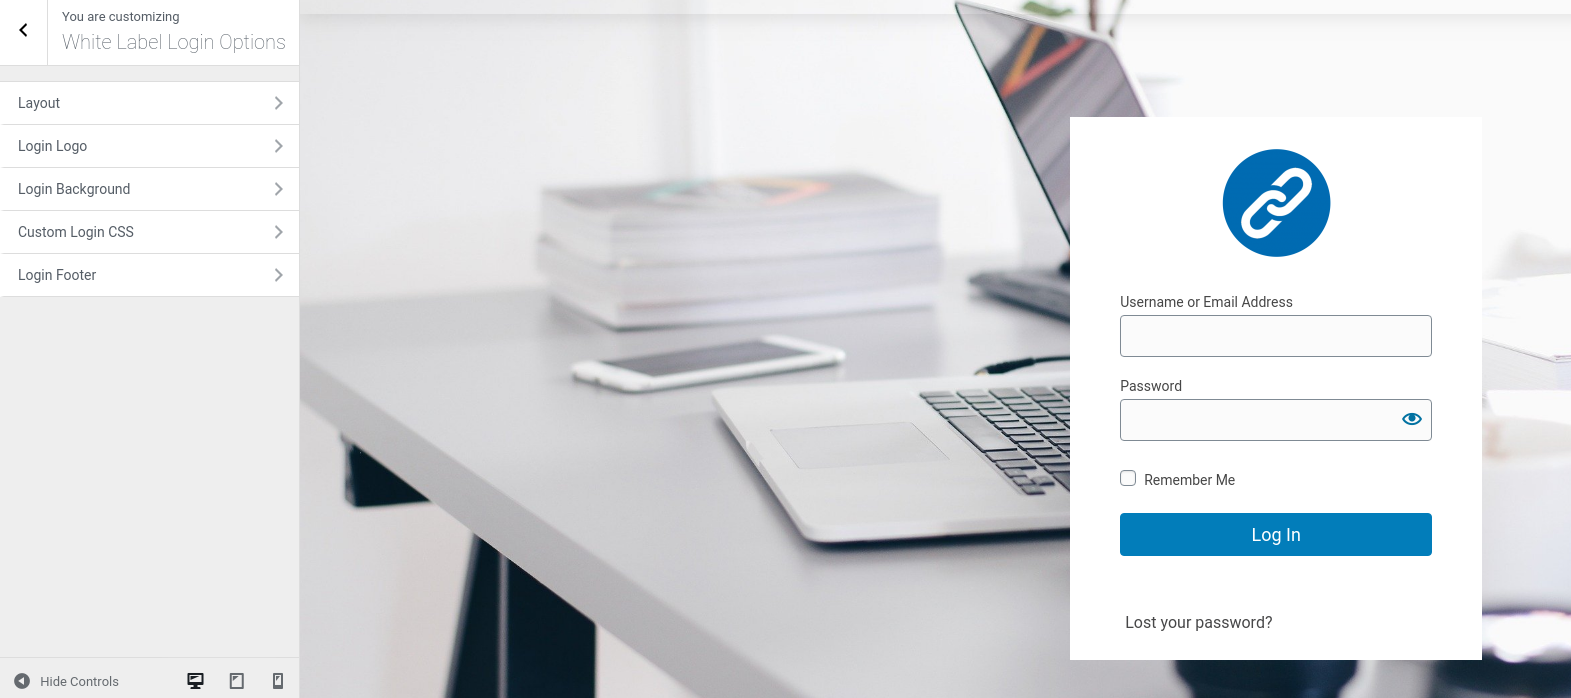
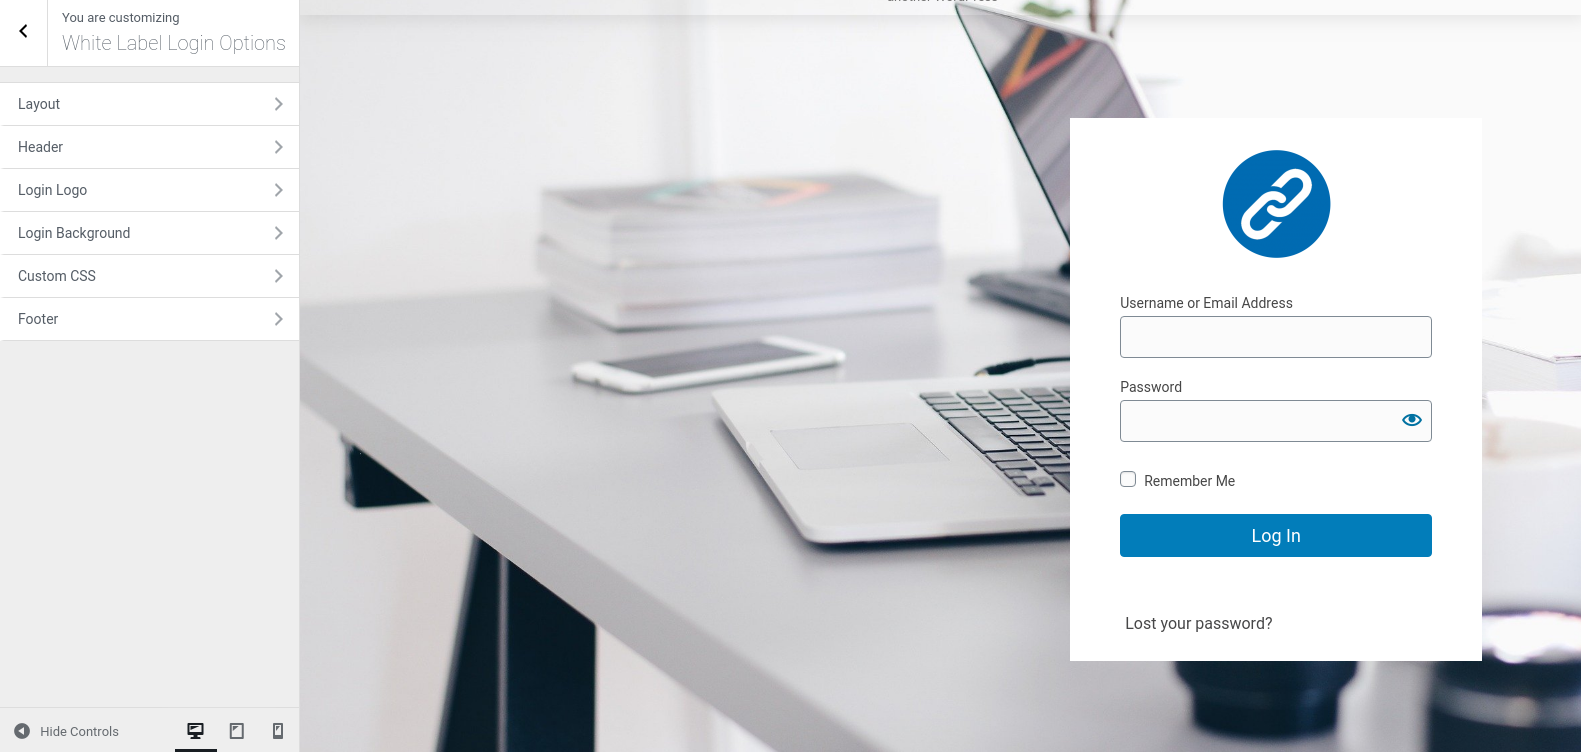
customizer update

diff --git a/src/Customizer/Settings/header.php b/src/Customizer/Settings/header.php
@@ -2,11 +2,11 @@
 
 
 	/**
-	 * [$transport_type description]
+	 * [$header_preview_type description]
 	 * @var string //'postMessage' or 'refresh'
 	 * @link https://developer.wordpress.org/themes/customize-api/customizer-objects/
 	 */
-	$transport_type = 'refresh';
+	$header_preview_type = 'refresh';
 
 
 	$wp_customize->add_setting( 'wpwll_options[header_title]',
@@ -14,7 +14,7 @@
 			'type' => 'option', //  setup the option here
 			'capability' => 'manage_options',
 			'default' => get_bloginfo( 'name' ),
-			'transport' => $transport_type, // or 'refresh'
+			'transport' => $header_preview_type, // or 'refresh'
 			'sanitize_callback' => 'sanitize_text_field'
 		) );
 
@@ -31,7 +31,7 @@
 			'type' => 'option', //  setup the option here
 			'capability' => 'manage_options',
 			'default' => get_bloginfo( 'description' ),
-			'transport' => $transport_type, // or 'refresh'
+			'transport' => $header_preview_type, // or 'refresh'
 			'sanitize_callback' => 'sanitize_text_field'
 		) );
 
@@ -51,7 +51,7 @@
 			'type' 							=> 'option',
 			'capability' 				=> 'manage_options',
 			'default' 					=> '#000000',
-			'transport' 				=> $transport_type,
+			'transport' 				=> $header_preview_type,
 			'sanitize_callback' => 'sanitize_hex_color',
 		) );
 
@@ -74,7 +74,7 @@ $wp_customize->add_setting( 'wpwll_options[header_background_color]',
 		'type' 							=> 'option',
 		'capability' 				=> 'manage_options',
 		'default' 					=> '#ffffff',
-		'transport' 				=> $transport_type,
+		'transport' 				=> $header_preview_type,
 		'sanitize_callback' => 'sanitize_hex_color',
 	) );
 
@@ -96,8 +96,8 @@ $wp_customize->add_setting( 'wpwll_options[header_alignment]',
 	array(
 		'type' 							=> 'option',
 		'capability' 				=> 'manage_options',
-		'default' 					=> 'bottom',
-		'transport' 				=> $transport_type, // or 'refresh'
+		'default' 					=> 'center',
+		'transport' 				=> $header_preview_type, // or 'refresh'
 		'sanitize_callback' => 'sanitize_title',
 	) );
 

diff --git a/src/Customizer/Settings/footer.php b/src/Customizer/Settings/footer.php
@@ -1,0 +1,48 @@
+<?php
+/**
+ * [$transport_type description]
+ * @var string //'postMessage' or 'refresh'
+ * @link https://developer.wordpress.org/themes/customize-api/customizer-objects/
+ */
+$footer_preview_type = 'refresh';
+
+$wp_customize->add_setting( 'wpwll_options[copyright_text]',
+	array(
+		'type' => 'option', //  setup the option here
+		'capability' => 'manage_options',
+		'default' => 'All Rights Reserved.',
+		'transport' => $footer_preview_type,
+		'sanitize_callback' => 'sanitize_text_field'
+	) );
+
+$wp_customize->add_control('wpwll_options[copyright_text]', array(
+		'label'   => 'Change Copyright Text',
+		'section' => 'white_label_footer',
+		'type'    => 'text',
+));
+
+/**
+ * Footer Alignment
+ * @var [type]
+ */
+$wp_customize->add_setting( 'wpwll_options[footer_alignment]',
+	array(
+		'type' 							=> 'option',
+		'capability' 				=> 'manage_options',
+		'default' 					=> 'center',
+		'transport' 				=> $footer_preview_type, // or 'refresh'
+		'sanitize_callback' => 'sanitize_title',
+	) );
+
+$wp_customize->add_control( 'wpwll_options[footer_alignment]',
+	array(
+			'type' 				=> 'radio',
+			'section' 			=> 'white_label_footer',
+			'label' 				=> __( 'Footer Alignment' ),
+			'description' 	=> __( 'Sets the alignment of the footer text.' ),
+			'choices' => array(
+				'center' 	=> __('Center'),
+				'left' 		=> __('Left'),
+				'right' 		=> __('Right')
+			),
+	) );

diff --git a/src/Customizer/WhiteLabelCustomizer.php b/src/Customizer/WhiteLabelCustomizer.php
@@ -163,7 +163,7 @@ final class WhiteLabelCustomizer {
 		 */
 		$wp_customize->add_section( 'white_label_footer',
 			array(
-				'title'              => __( 'Login Footer' ),
+				'title'              => __( 'Footer' ),
 				//'priority'           => 210,
 				'capability'				 => 'manage_options',
 				//'description_hidden' => true,
@@ -196,7 +196,7 @@ final class WhiteLabelCustomizer {
 		require_once plugin_dir_path( __FILE__ )	. 'Settings/layout.php';
 		require_once plugin_dir_path( __FILE__ )	. 'Settings/background.php';
 		require_once plugin_dir_path( __FILE__ )	. 'Settings/css.php';
-		require_once plugin_dir_path( __FILE__ )	. 'Settings/copyright.php';
+		require_once plugin_dir_path( __FILE__ )	. 'Settings/footer.php';
 		require_once plugin_dir_path( __FILE__ )	. 'Settings/extras.php';
 	}
 }
